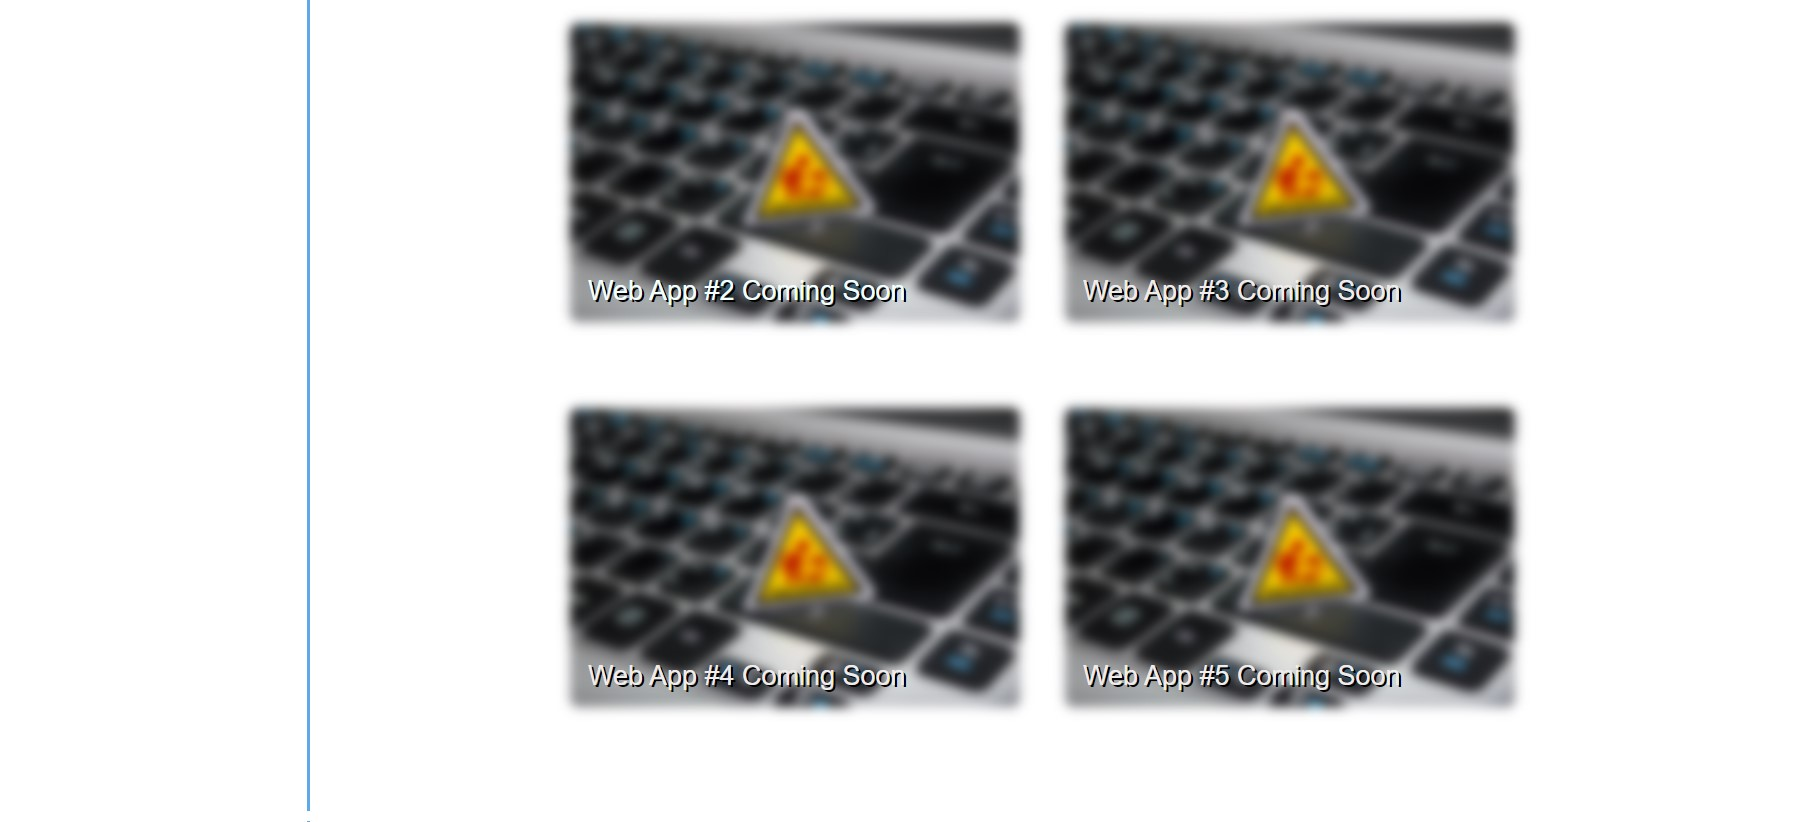
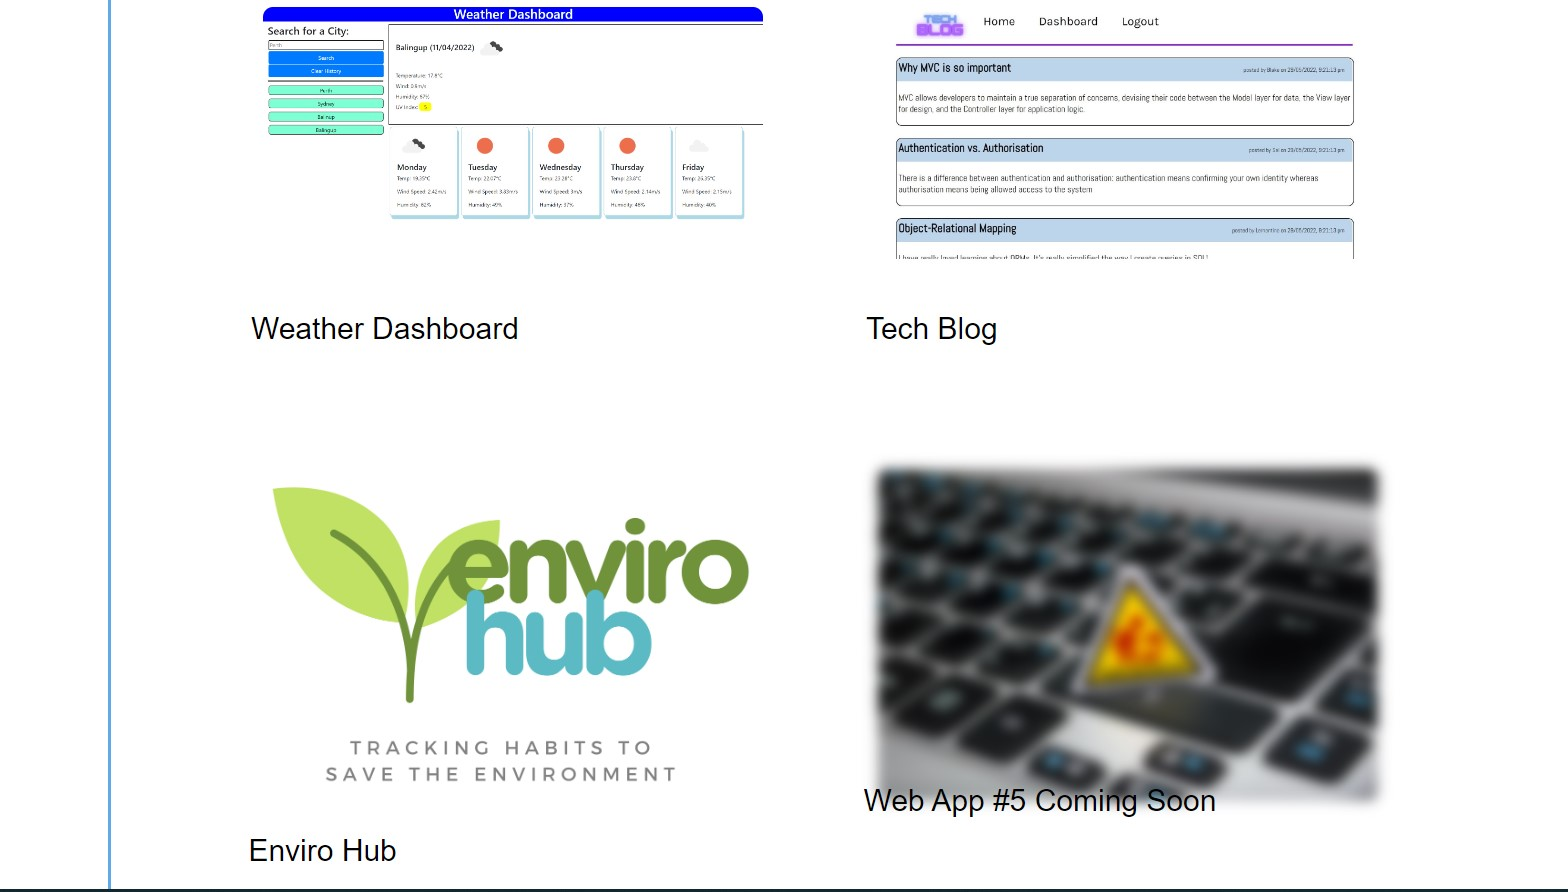
portfolio updated with new links

diff --git a/index.html b/index.html
@@ -1,25 +1,27 @@
 <!DOCTYPE html>
 <html lang="en">
+
 <head>
     <meta charset="UTF-8">
     <meta http-equiv="X-UA-Compatible" content="IE=edge">
     <meta name="viewport" content="width=device-width, initial-scale=1.0">
     <title>samw1s3 web creations</title>
-    <link rel="stylesheet" href="assets/reset.css" />
-    <link rel="stylesheet" href="assets/style.css" />
+    <link rel="stylesheet" href="assets/css/reset.css" />
+    <link rel="stylesheet" href="assets/css/style.css" />
 </head>
+
 <body>
     <header>
-            <h1 class="title">Samantha Knopper</h1>
-            <nav>
-                <Ul class="links">
+        <h1 class="title">Samantha Knopper</h1>
+        <nav>
+            <Ul class="links">
                 <li><a id="nav-headings" href="#aboutmetitle">About Me</a></li>
                 <li><a id="nav-headings" href="#work">Work</a></li>
                 <li><a id="nav-headings" href="#contact-heading">Contact Me</a></li>
                 <li><a id="nav-headings" href="#resume-heading">Resume</a></li>
-                </Ul>
-            </nav>    
-        
+            </Ul>
+        </nav>
+
     </header>
     <section class="banner">
         <img id=avatar src="./assets/avatar.jpg" alt="avatar of website creator">
@@ -27,45 +29,52 @@
     </section>
     <section class="about-me">
         <h2 id="aboutmetitle">About Me</h2>
-        <article>After more than 10 years of working in the classroom, the call of the code was too strong. I took the risk to leave my permanent job, retrain and start a new career path. I am wanting to merge my two worlds together by using my experience teaching children to create platforms that will assist future educators to better connect with their students, not only in the classroom but when they move to different environments. My evolution is still in progress - watch this space 👀
+        <article>After more than 10 years of working in the classroom, the call of the code was too strong. I took the
+            risk to leave my permanent job, retrain and start a new career path. I am wanting to merge my two worlds
+            together by using my experience teaching children to create platforms that will assist future educators to
+            better connect with their students, not only in the classroom but when they move to different environments.
+            My evolution is still in progress - watch this space 👀
         </article>
     </section>
     <section class="mainwork">
-        <aside class="workcolumn"><h2 id="work">Work</h2></aside>
-               
-            <aside class="mainprojects">
-                  
-            
-                <button class="turtleapp lead-img" id="image-box-top"> 
-                 <a href="https://samw1s3.github.io/group_project1/" target="blank">       
-                <img class="show"src="./assets/turtlescreenshot.jpg" alt="placeholder image"> 
-                <img class="hide" src="./assets/turtlescreenshotmini.jpg" alt="placeholder image"> 
+        <aside class="workcolumn">
+            <h2 id="work">Work</h2>
+        </aside>
 
-                    <div class="image-caption-bottom-left" id="turtle-heading">Web App: Api Usage</div> 
+        <aside class="mainprojects">
+
+            <button class="turtleapp lead-img" id="image-box-top">
+                <a href="https://samw1s3.github.io/group_project1/" target="blank">
+                    <img class="show" src="./assets/turtlescreenshotmini.jpg" alt="placeholder image">
+                    <div class="image-caption-bottom-left" id="turtle-heading">Web App: Api Usage</div>
                 </a>
-                </button>    
-            
-                    <div id="image-box">
-                   <a href="https://samw1s3.github.io/weatherapp/" target="blank"> <figure class="images-top-containter">
-                     <img id=minor-image-app src="./assets/weatherdashboard.jpg" alt="placeholder image">            
-                     <div class="image-caption-weather"> Weather Dashboard </div>
-                   </a>
-                    </div>
-                   <a href="#" target="blank"><div id="image-box">
-                      <img  id=minor-image src="./assets/pexels-fernando-arcos-211122.jpg">            
-                     <div class="image-caption-bottom-left">  Web App #3 Coming Soon </div>
-                     </div></a>
-                    </figure>
+            </button>
+            <figure class="images-top-container">
+                <div id="image-box">
+                    <a href="https://samw1s3.github.io/weatherapp/" target="blank">
+                        <img id=minor-image-app src="./assets/weatherdashboard.jpg" alt="placeholder image">
+                        <div class="image-caption-weather"> Weather Dashboard </div>
+                    </a>
+                </div>
+                <div id="image-box">
+                    <a href="https://tech-blog-samw1s3.herokuapp.com/" target="blank">
+                        <img id=minor-image-app src="./assets/techblog.jpg">
+                        <div class="image-caption-weather"> Tech Blog </div>
+                    </a>
+                </div>
+            </figure>
 
-                     <figure class="images-bottom-container">
-                      <div id="image-box"> 
-                          <img  id=minor-image src="./assets/pexels-fernando-arcos-211122.jpg">            
-                        <div class="image-caption-bottom-left"> Web App #4 Coming Soon </div>
-                     </div>
-                     <div id="image-box">
-                        <img  id=minor-image src="./assets/pexels-fernando-arcos-211122.jpg">            
-                        <div class="image-caption-bottom-left"> Web App #5 Coming Soon </div>
-                  </div>
+            <figure class="images-bottom-container">
+                <div id="image-box">
+                    <a href="https://enviro-hub.herokuapp.com/" target="blank">
+                        <img id=minor-image-app src="./assets/enviroLogo.png">
+                        <div class="image-caption-weather"> Enviro Hub </div>
+                    </a>
+                </div>
+                <div id="image-box">
+                    <img id=minor-image src="./assets/pexels-fernando-arcos-211122.jpg">
+                    <div class="image-caption-bottom-left"> Web App #5 Coming Soon </div>
+                </div>
             </figure>
         </aside>
     </section>
@@ -82,5 +91,6 @@
         <p id="resume-content"> Emailed on request. </p>
     </section>
     <footer>
-        <h3>Samw1s3 Web Creations</h3></footer>
+        <h3>Samw1s3 Web Creations</h3>
+    </footer>
 </body>

diff --git a/assets/css/style.css b/assets/css/style.css
@@ -46,17 +46,18 @@ header {
 }
 
 li {
-    padding: 18px 20px 15px 20px;
+    padding: 15px 15px 10px 19px;
     justify-content: flex-end;
     margin: 10px;
     text-decoration: none;
-    font-size: 1.75rem;
+    font-size: 1.5rem;
 }
 
 a {
     text-decoration: none;
     color: azure;
-    margin:0;
+    margin:-2px;
+    border-radius: 3px;
 }
 
 nav {
@@ -76,6 +77,7 @@ nav ul li:hover {
 #github-link {
     text-decoration: none;
     color: black;
+    margin:0;
 }
 .banner {
     width: 100%;
@@ -189,12 +191,14 @@ img {
     height: auto;
     filter: blur(5px);
     filter: grayscale(20px);
+    margin:3rem 3rem 3rem 3rem;
 }
 
 #minor-image-app {
     max-width: 100%;
     width: 400px;
     height: auto;
+    margin: 3rem 3rem 2rem 3rem;
 }
 .lead-img {
     position: relative;
@@ -224,9 +228,6 @@ img {
     padding: 20px;
     display: flex;
     flex-wrap: wrap;
-    position: relative;
-    text-align: center;
-    color: white;
     }
 
 .images-bottom-container {
@@ -251,8 +252,7 @@ img {
    position: relative;
     text-align: center;
     color: rgb(240, 236, 236); 
-    padding: 20px;
-    max-width: 100%;
+    max-width: 50%;
     height: auto;
 }
 #image-box:hover {
@@ -267,7 +267,7 @@ img {
     left: 16px;
     z-index: 100;
     padding: 20px;
-    text-shadow:2px 4px  black ;
+    color: black ;
 }
 
 .image-caption-weather {
@@ -374,6 +374,7 @@ footer {
 
     #turtle-heading {
         bottom: -20px;
+        
     }
     .mainprojects {
         width: 100%;
@@ -405,7 +406,7 @@ footer {
         padding: 0;
     }
 
-    #image-box , .images-top-container, #minor-image{
+    #image-box , .images-top-container, .images-bottom-container, #minor-image, #minor-image-app{
         width: 100%;
     }
 }

diff --git a/README.md b/README.md
@@ -2,7 +2,7 @@
 This website is the base design for my future web applications to live to allow my future employers to see my existing work and see if it aligns with what they are looking for in employees.
 
 ## Description
-This website has links withing the page, located in the navigation bar at the top, that allow the user to navigate to a section they want to see specifically. Each image is also clickable link (as of now they go no where) they will open a new tab for the web applications to be seen. It is responsive to different size screens and can work nicely on a mobile phone, where all elements go into a single column. 
+This website has links withing the page, located in the navigation bar at the top, that allow the user to navigate to a section they want to see specifically. Each image is also clickable link (as of now they go no where) they will open a new tab for the web applications to be seen. It is responsive to different size screens and can work nicely on a mobile phone, where all elements go into a single column.  
 
 ## Screenshots
 <img src="assets\screenshot1.jpg" >
@@ -12,7 +12,7 @@ This website has links withing the page, located in the navigation bar at the to
 
 
 ## References 
-w3schools https://www.w3schools.com
+w3schools https://www.w3schools.com <br/>
 youtube tutoritals https://www.youtube.com/watch?v=dFf0MKQbKY8
 
 
